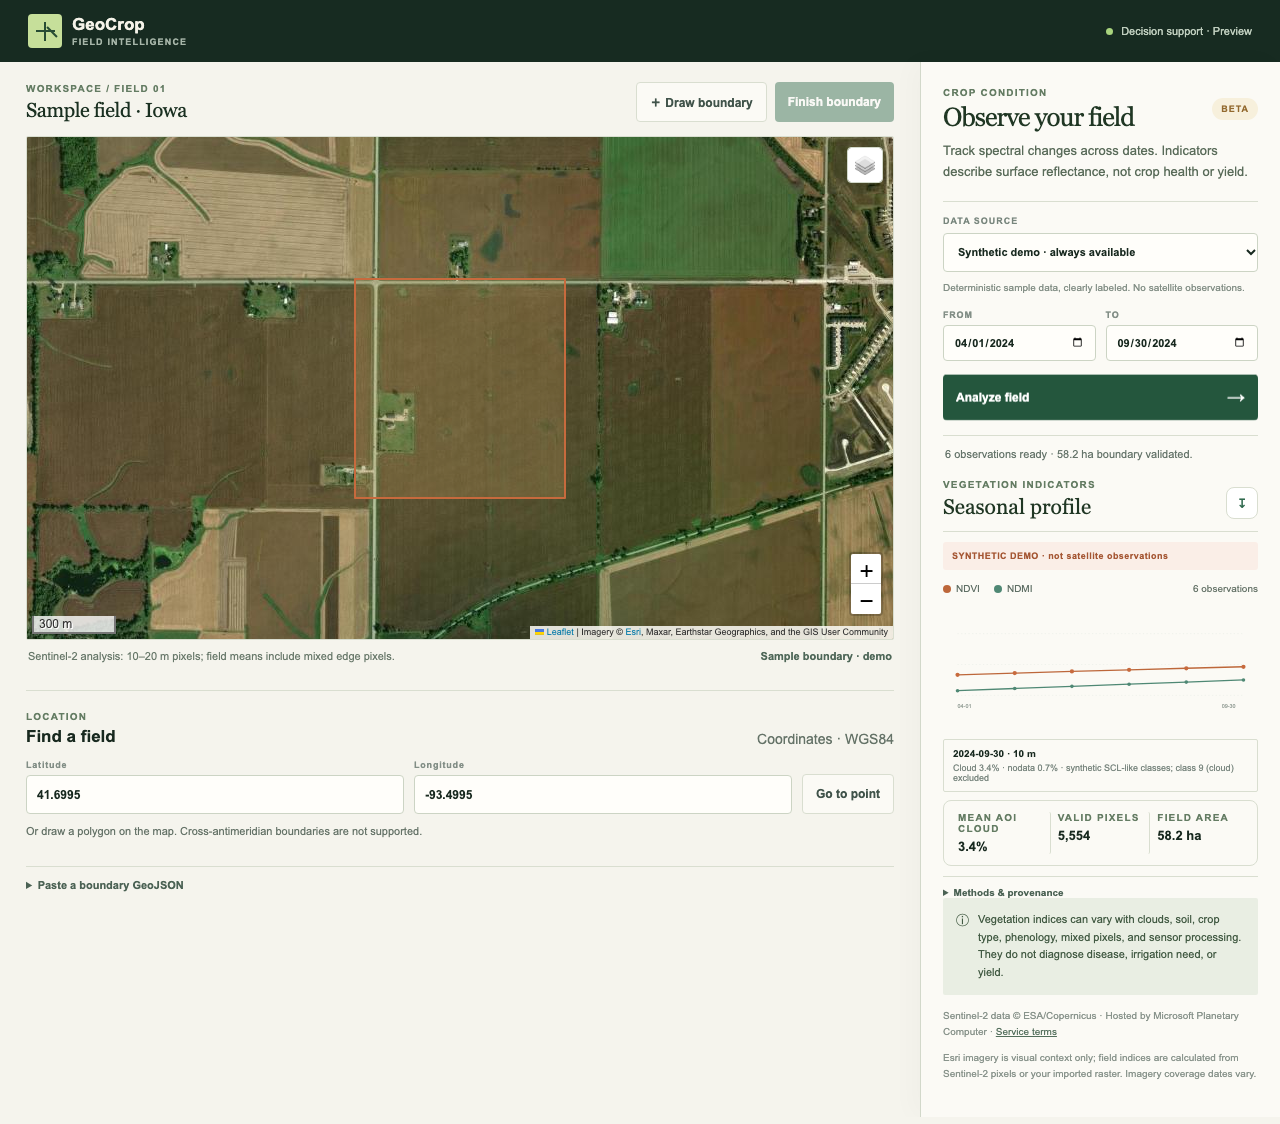
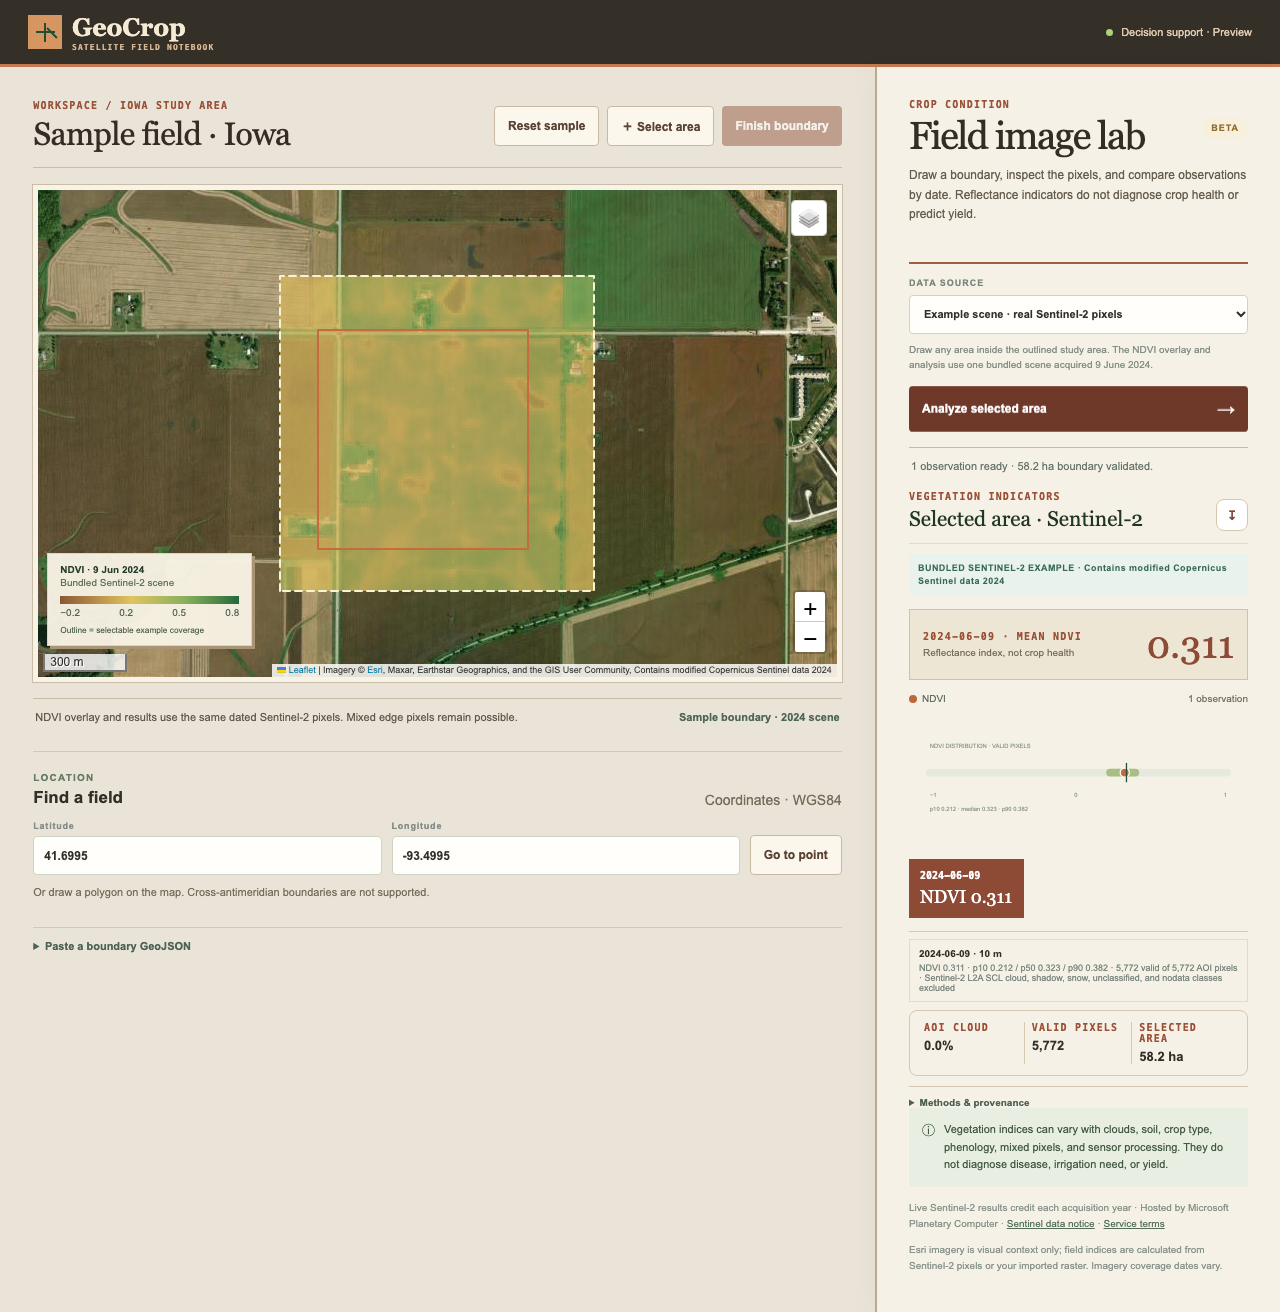
Redesign primary analysis workspace

diff --git a/src/main.ts b/src/main.ts
@@ -54,7 +54,7 @@ const sample: GeoJSON.Feature<GeoJSON.Polygon> = {
 };
 const app = document.querySelector<HTMLDivElement>("#app")!;
 app.innerHTML = `
-  <header class="topbar"><a class="brand" href="#"><span class="brand-mark" aria-hidden="true"><span></span></span><span>GeoCrop<small>FIELD INTELLIGENCE</small></span></a><div class="top-meta"><span class="live-dot"></span> Decision support · Preview</div></header>
+  <header class="topbar"><a class="brand" href="#"><span class="brand-mark" aria-hidden="true"><span></span></span><span>GeoCrop<small>SATELLITE FIELD NOTEBOOK</small></span></a><div class="top-meta"><span class="live-dot"></span> Decision support · Preview</div></header>
   <main class="layout">
     <section class="map-column" aria-label="Field map">
       <div class="map-toolbar"><div class="map-label"><span class="eyebrow">WORKSPACE / IOWA STUDY AREA</span><strong id="field-name">Sample field · Iowa</strong></div><div class="map-actions"><button id="reset-btn" class="button secondary">Reset sample</button><button id="draw-btn" class="button secondary">＋ Select area</button><button id="finish-btn" class="button primary" disabled>Finish boundary</button></div></div>
@@ -64,8 +64,8 @@ app.innerHTML = `
       <details class="geojson-entry"><summary>Paste a boundary GeoJSON</summary><label for="geojson-input" class="muted small">Polygon geometry or Feature · WGS84</label><textarea id="geojson-input" rows="3" placeholder='{"type":"Polygon","coordinates":[[[-93.5,41.7],…]]}'></textarea><button id="apply-geojson" class="button secondary">Use this boundary</button></details>
     </section>
     <aside class="panel" aria-label="Analysis controls and results">
-      <div class="panel-heading"><div><span class="eyebrow">CROP CONDITION</span><h1>Observe your field</h1></div><span class="status-pill">BETA</span></div>
-      <p class="intro">Explore a dated scene by area, or switch sources to compare dates. Indicators describe surface reflectance, not crop health or yield.</p>
+      <div class="panel-heading"><div><span class="eyebrow">CROP CONDITION</span><h1>Field image lab</h1></div><span class="status-pill">BETA</span></div>
+      <p class="intro">Draw a boundary, inspect the pixels, and compare observations by date. Reflectance indicators do not diagnose crop health or predict yield.</p>
       <div class="control-card"><label class="field-label" for="source-mode">DATA SOURCE</label><select id="source-mode"><option value="example">Example scene · real Sentinel‑2 pixels</option><option value="demo">Synthetic time series · illustrative</option><option value="live">Live catalog · Sentinel‑2 L2A</option><option value="import">Import GeoTIFF</option></select><div id="source-note" class="helper">Draw any area inside the outlined study area. The NDVI overlay and analysis use one bundled scene acquired 9 June 2024.</div>
         <div id="import-row" hidden><label class="field-label" for="raster-file">3-band reflectance GeoTIFF</label><input id="raster-file" type="file" accept=".tif,.tiff,image/tiff"><div class="helper">One scene; date range is not used. Band 1 red, 2 NIR, 3 SWIR; unit reflectance 0–1. Up to 20 MB.</div></div>
         <div id="date-grid" class="date-grid" hidden><label>FROM<input type="date" id="start-date" value="2024-04-01" disabled></label><label>TO<input type="date" id="end-date" value="2024-09-30" disabled></label></div>
@@ -78,6 +78,7 @@ app.innerHTML = `
         <div class="ndvi-feature"><div><span id="ndvi-feature-label" class="eyebrow">SELECTED AREA · MEAN NDVI</span><small>Reflectance index, not crop health</small></div><strong id="mean-ndvi">—</strong></div>
         <div class="chart-legend"><span><i class="swatch ndvi"></i>NDVI</span><span id="ndmi-legend"><i class="swatch ndmi"></i>NDMI</span><span id="chart-range" class="muted"></span></div>
         <div id="chart" class="chart" role="img" aria-label="NDVI and NDMI time series"></div>
+        <div id="observation-list" class="observation-list" aria-label="Inspect dated observations"></div>
         <div id="scene-list" class="scene-list"></div>
         <div class="quality-grid"><div><span id="cloud-label" class="eyebrow">AOI CLOUD</span><strong id="cloud-value">—</strong></div><div><span class="eyebrow">VALID PIXELS</span><strong id="pixel-value">—</strong></div><div><span class="eyebrow">SELECTED AREA</span><strong id="area-value">—</strong></div></div>
         <details class="provenance"><summary>Methods & provenance</summary><dl id="provenance"></dl></details>
@@ -747,6 +748,41 @@ function render(data: Result) {
   $("chart-range").textContent =
     `${obs.length} observation${obs.length === 1 ? "" : "s"}`;
   drawChart(obs);
+  const observationList = $("observation-list");
+  observationList.replaceChildren();
+  const selectObservation = (index: number) => {
+    const selected = obs[index];
+    if (!selected) return;
+    $("mean-ndvi").textContent = selected.ndvi?.toFixed(3) ?? "—";
+    $("ndvi-feature-label").textContent = `${selected.date} · MEAN NDVI`;
+    $("cloud-value").textContent =
+      selected.cloud_percent == null
+        ? "not provided"
+        : `${selected.cloud_percent.toFixed(1)}%`;
+    $("pixel-value").textContent = selected.pixel_count.toLocaleString();
+    observationList
+      .querySelectorAll("button")
+      .forEach((button, buttonIndex) => {
+        button.setAttribute("aria-pressed", String(buttonIndex === index));
+      });
+  };
+  for (const [index, observation] of obs.entries()) {
+    const button = document.createElement("button");
+    button.type = "button";
+    button.className = "observation-item";
+    button.setAttribute(
+      "aria-label",
+      `Inspect observation ${observation.date}`,
+    );
+    const date = document.createElement("span");
+    date.textContent = observation.date;
+    const value = document.createElement("strong");
+    value.textContent = `NDVI ${observation.ndvi?.toFixed(3) ?? "—"}`;
+    button.append(date, value);
+    button.addEventListener("click", () => selectObservation(index));
+    observationList.append(button);
+  }
+  if (obs.length) selectObservation(obs.length - 1);
   $("scene-list").replaceChildren();
   if (obs.length) {
     const latestObs = obs.at(-1)!;

diff --git a/src/style.css b/src/style.css
@@ -1025,3 +1025,215 @@ body {
     flex-wrap: wrap;
   }
 }
+
+/* Satellite field notebook: imagery as the specimen, observations as dated evidence. */
+:root {
+  --green: #7f4534;
+  --ink: #332e28;
+  --line: #d6c8ae;
+  --muted: #756d5c;
+  background: #eee9dc;
+}
+body {
+  background: #eee9dc;
+  color: #332e28;
+}
+.topbar {
+  background: #342f27;
+  color: #f6ead5;
+  border-bottom: 3px solid #c37a50;
+  min-height: 67px;
+}
+.brand {
+  color: #f6ead5;
+  font-family: Georgia, "Times New Roman", serif;
+  font-size: 25px;
+}
+.brand small {
+  color: #d9b794;
+  font-family: ui-monospace, SFMono-Regular, monospace;
+  font-size: 8px;
+  letter-spacing: 0.14em;
+}
+.brand-mark {
+  background: #d59662;
+  border-radius: 0;
+}
+.top-meta {
+  color: #e2ccb0;
+}
+.layout {
+  grid-template-columns: minmax(0, 1fr) minmax(350px, 405px);
+  gap: 0;
+  max-width: 1800px;
+  margin: auto;
+}
+.map-column {
+  background: #e9e4d7;
+  padding: clamp(16px, 2.6vw, 38px);
+}
+.map-toolbar {
+  border-bottom: 1px solid #cbbda5;
+  padding-bottom: 15px;
+  margin-bottom: 17px;
+}
+.map-label strong {
+  font-size: clamp(23px, 2.5vw, 37px);
+  color: #342c26;
+}
+.map-label .eyebrow,
+.panel .eyebrow {
+  font:
+    700 10px ui-monospace,
+    SFMono-Regular,
+    monospace;
+  letter-spacing: 0.12em;
+  color: #9a5138;
+}
+#map {
+  height: min(69vh, 780px);
+  min-height: 450px;
+  border-radius: 0;
+  border: 5px solid #f8f3e9;
+  box-shadow: 0 0 0 1px #cbbda5;
+}
+.map-legend {
+  background: #f8f2e4f5;
+  border-radius: 0;
+  box-shadow: 3px 3px 0 #a99575;
+}
+.map-footer {
+  border-top: 1px solid #cbbda5;
+  margin-top: 16px;
+  padding-top: 12px;
+  color: #63594b;
+}
+.panel {
+  background: #f6f1e7;
+  border-left: 2px solid #b9a98d;
+  padding: clamp(20px, 2.5vw, 32px);
+}
+.panel h1 {
+  font-size: clamp(28px, 3vw, 39px);
+  color: #342d26;
+}
+.panel .intro {
+  font-size: 12px;
+  line-height: 1.6;
+  color: #655c4d;
+}
+.control-card {
+  border-top: 2px solid #9e5e42;
+  border-bottom: 1px solid #c8baa2;
+  margin-top: 20px;
+}
+.primary {
+  background: #8d4b35;
+}
+.primary:hover {
+  background: #6f392a;
+}
+.secondary {
+  background: #fbf7ec;
+  border-color: #c8baa2;
+  color: #5a4335;
+}
+.ndvi-feature {
+  background: #eee6d4;
+  padding: 13px;
+  border: 1px solid #d3c1a4;
+  margin-top: 14px;
+}
+.ndvi-feature strong {
+  color: #8d4b35;
+  font-size: 38px;
+}
+.observation-list {
+  display: flex;
+  gap: 5px;
+  overflow-x: auto;
+  scrollbar-width: thin;
+  padding: 11px 0 13px;
+  margin-top: 6px;
+  border-bottom: 1px solid #d6c8ae;
+}
+.observation-item {
+  flex: 0 0 auto;
+  min-width: 115px;
+  display: grid;
+  gap: 5px;
+  text-align: left;
+  padding: 10px;
+  border: 1px solid #cbbda5;
+  background: #f8f3e8;
+  color: #534c3e;
+  cursor: pointer;
+}
+.observation-item span {
+  font:
+    700 10px ui-monospace,
+    SFMono-Regular,
+    monospace;
+}
+.observation-item strong {
+  font:
+    500 18px Georgia,
+    "Times New Roman",
+    serif;
+  color: #763f30;
+}
+.observation-item[aria-pressed="true"] {
+  background: #8d4b35;
+  color: #fff;
+  border-color: #8d4b35;
+}
+.observation-item[aria-pressed="true"] strong {
+  color: #fff;
+}
+.observation-item:focus-visible {
+  outline: 3px solid #9e5e42;
+  outline-offset: 2px;
+}
+.scene-row,
+.quality-grid > div {
+  border-radius: 0;
+}
+@media (max-width: 950px) {
+  .layout {
+    grid-template-columns: minmax(0, 1fr);
+  }
+  .panel {
+    border-left: 0;
+    border-top: 2px solid #b9a98d;
+  }
+  .map-column {
+    padding: 16px;
+  }
+  #map {
+    height: 55vh;
+    min-height: 360px;
+  }
+}
+@media (max-width: 600px) {
+  .topbar {
+    padding: 0 14px;
+  }
+  .brand {
+    font-size: 20px;
+  }
+  .top-meta {
+    font-size: 9px;
+  }
+  .panel {
+    padding: 20px 16px;
+  }
+  .map-actions {
+    gap: 6px;
+  }
+  #map {
+    min-height: 340px;
+  }
+  .map-label strong {
+    font-size: 24px;
+  }
+}

diff --git a/e2e/smoke.spec.ts b/e2e/smoke.spec.ts
@@ -20,7 +20,7 @@ test("bundled Sentinel example shows its coverage and exports selected pixels", 
 }) => {
   await page.goto("/");
   await expect(
-    page.getByRole("heading", { name: "Observe your field" }),
+    page.getByRole("heading", { name: "Field image lab" }),
   ).toBeVisible();
   await expect(page.locator(".leaflet-control-layers-toggle")).toBeVisible();
   await expect(
@@ -193,6 +193,10 @@ test("synthetic time series remains labeled and hides the real-scene overlay", a
   await page.getByRole("button", { name: /Analyze field/ }).click();
   await expect(page.getByText(/SYNTHETIC DEMO/)).toBeVisible();
   await expect(page.locator("#chart svg")).toBeVisible();
+  const firstObservation = page.locator("#observation-list button").first();
+  await firstObservation.click();
+  await expect(firstObservation).toHaveAttribute("aria-pressed", "true");
+  await expect(page.locator("#ndvi-feature-label")).toContainText("MEAN NDVI");
 });
 
 test("keyboard-friendly GeoJSON entry selects a boundary", async ({ page }) => {
@@ -233,7 +237,7 @@ test("mobile layout stays within the viewport", async ({ page }) => {
   await page.setViewportSize({ width: 390, height: 844 });
   await page.goto("/");
   await expect(
-    page.getByRole("heading", { name: "Observe your field" }),
+    page.getByRole("heading", { name: "Field image lab" }),
   ).toBeVisible();
   await expect(page.locator("#map")).toBeVisible();
   await page.getByRole("button", { name: /Analyze selected area/ }).click();

diff --git a/README.md b/README.md
@@ -1,6 +1,6 @@
 # GeoCrop
 
-GeoCrop is a responsive, map-first demonstrator for exploring vegetation indicators over a field boundary. Its default selectable example uses bundled, dated Sentinel-2 pixels. It is decision support, not agronomic diagnosis or yield prediction.
+GeoCrop is a responsive satellite field notebook for exploring vegetation indicators over a field boundary. Its default selectable example uses bundled, dated Sentinel-2 pixels. It is decision support, not agronomic diagnosis or yield prediction.
 
 **Live demo:** [geocrop-three.vercel.app](https://geocrop-three.vercel.app)
 
@@ -12,7 +12,7 @@ GeoCrop is a responsive, map-first demonstrator for exploring vegetation indicat
 
 1. Open the live demo. The dashed outline marks a bundled Sentinel-2 scene from **9 June 2024**. Click **Select area**, draw a polygon anywhere inside the outline, then **Finish boundary** and **Analyze selected area**. The overlay and result use the same real pixels. [Implementation and scientific limits](docs/example-scene.md).
 2. Switch to **Synthetic time series** for an explicitly illustrative seasonal demo, or **Live catalog** to search and analyze other real Sentinel-2 scenes. [Live result screenshot](docs/screenshots/live-sentinel.png).
-3. Open **Methods & provenance**, then export the CSV. See the [independent real-scene reference check](docs/science-validation.md) for one reproducible comparison and its scientific limits.
+3. Select a dated observation in the ledger to inspect its NDVI, cloud, and valid-pixel values. Open **Methods & provenance**, then export the CSV. See the [independent real-scene reference check](docs/science-validation.md) for one reproducible comparison and its scientific limits.
 
 ## Quick start
 
